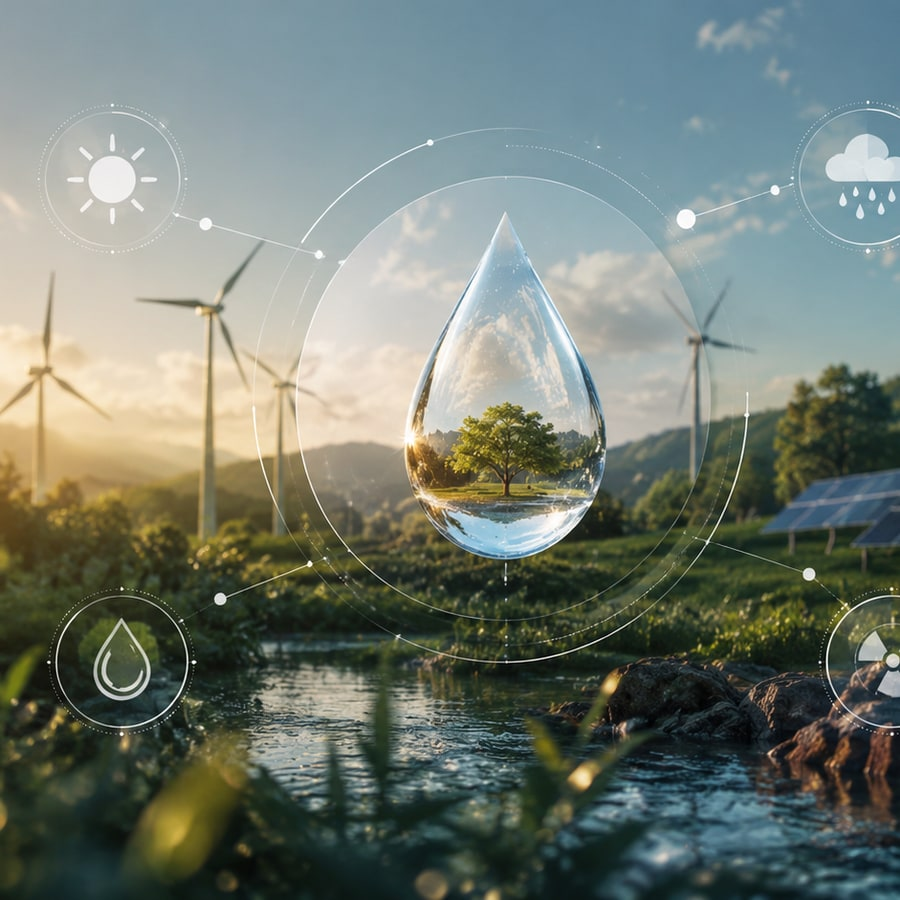
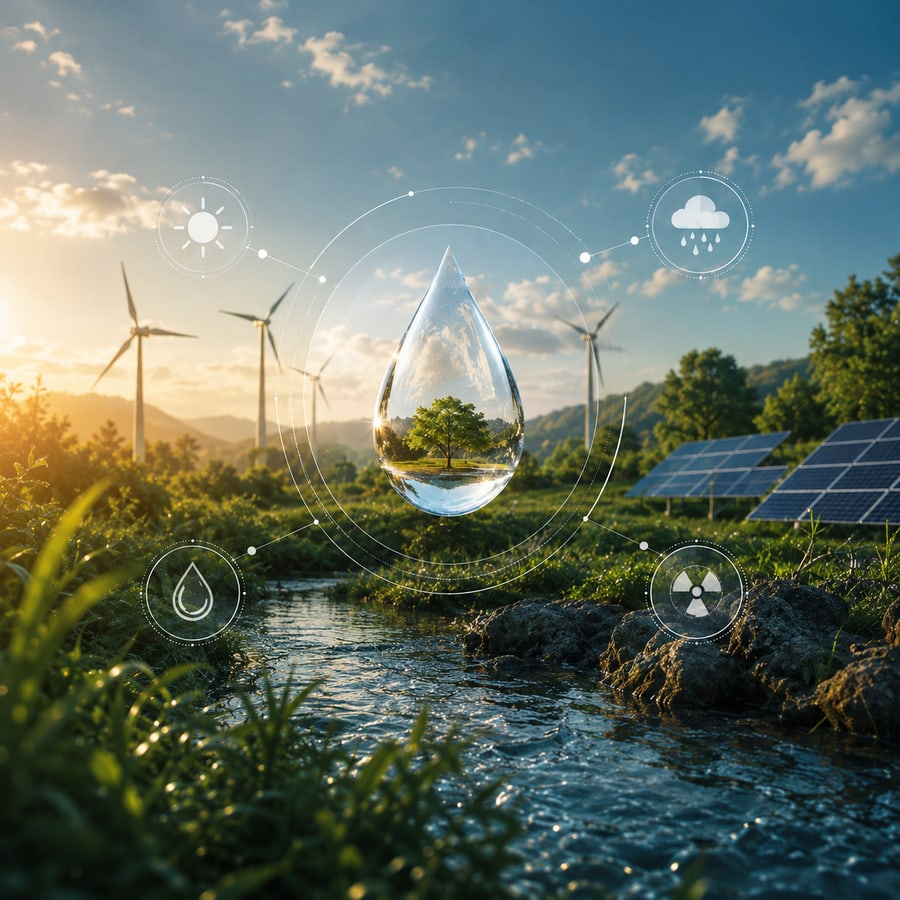
Картки напрямів: нейтральне затемнення в спокої, зелене при наведенні; нові фото; бігучий рядок без паузи
- Затемнення в спокої легше й чорне; фірмовий зелений проявляється
  окремим шаром при наведенні
- Замінено фото гуманітарного реагування, енергетики та військової
  готовності
- Бігучий рядок партнерів більше не зупиняється під курсором

Claude-Session: https://claude.ai/code/session_0154L7r1tvjFE8rTWUGx1arc

diff --git a/src/styles.css b/src/styles.css
@@ -686,7 +686,6 @@ main > article,
   gap: 16px;
   animation: marquee 32s linear infinite;
 }
-.partner-marquee:hover .partner-track { animation-play-state: paused; }
 @keyframes marquee {
   from { transform: translateX(0); }
   to   { transform: translateX(-50%); }
@@ -855,13 +854,32 @@ main > article,
   position: absolute;
   inset: auto 0 0 0;
   padding: 38px 18px 18px;
+  /* Стан спокою — легке нейтральне затемнення. */
   background: linear-gradient(180deg,
-    rgba(26, 43, 14, 0) 0%,
-    rgba(26, 43, 14, 0.58) 20%,
-    rgba(26, 43, 14, 0.9) 46%,
-    rgba(26, 43, 14, 0.97) 100%);
+    rgba(0, 0, 0, 0) 0%,
+    rgba(0, 0, 0, 0.42) 22%,
+    rgba(0, 0, 0, 0.66) 50%,
+    rgba(0, 0, 0, 0.76) 100%);
   text-align: left;
 }
+/* Фірмовий зелений проявляється поверх чорного при наведенні —
+   градієнти самі не анімуються, тож це окремий шар з opacity. */
+.focus-overlay::before {
+  content: "";
+  position: absolute;
+  inset: 0;
+  opacity: 0;
+  transition: opacity var(--t);
+  background: linear-gradient(180deg,
+    rgba(26, 43, 14, 0) 0%,
+    rgba(26, 43, 14, 0.6) 20%,
+    rgba(26, 43, 14, 0.9) 46%,
+    rgba(26, 43, 14, 0.97) 100%);
+}
+.focus-photos a:hover .focus-overlay::before,
+.focus-photos a:focus-visible .focus-overlay::before { opacity: 1; }
+.focus-overlay h3,
+.focus-overlay .focus-cta { position: relative; z-index: 1; }
 .focus-overlay h3 {
   font-size: clamp(17px, 1.35vw, 19px);
   font-weight: 600;
